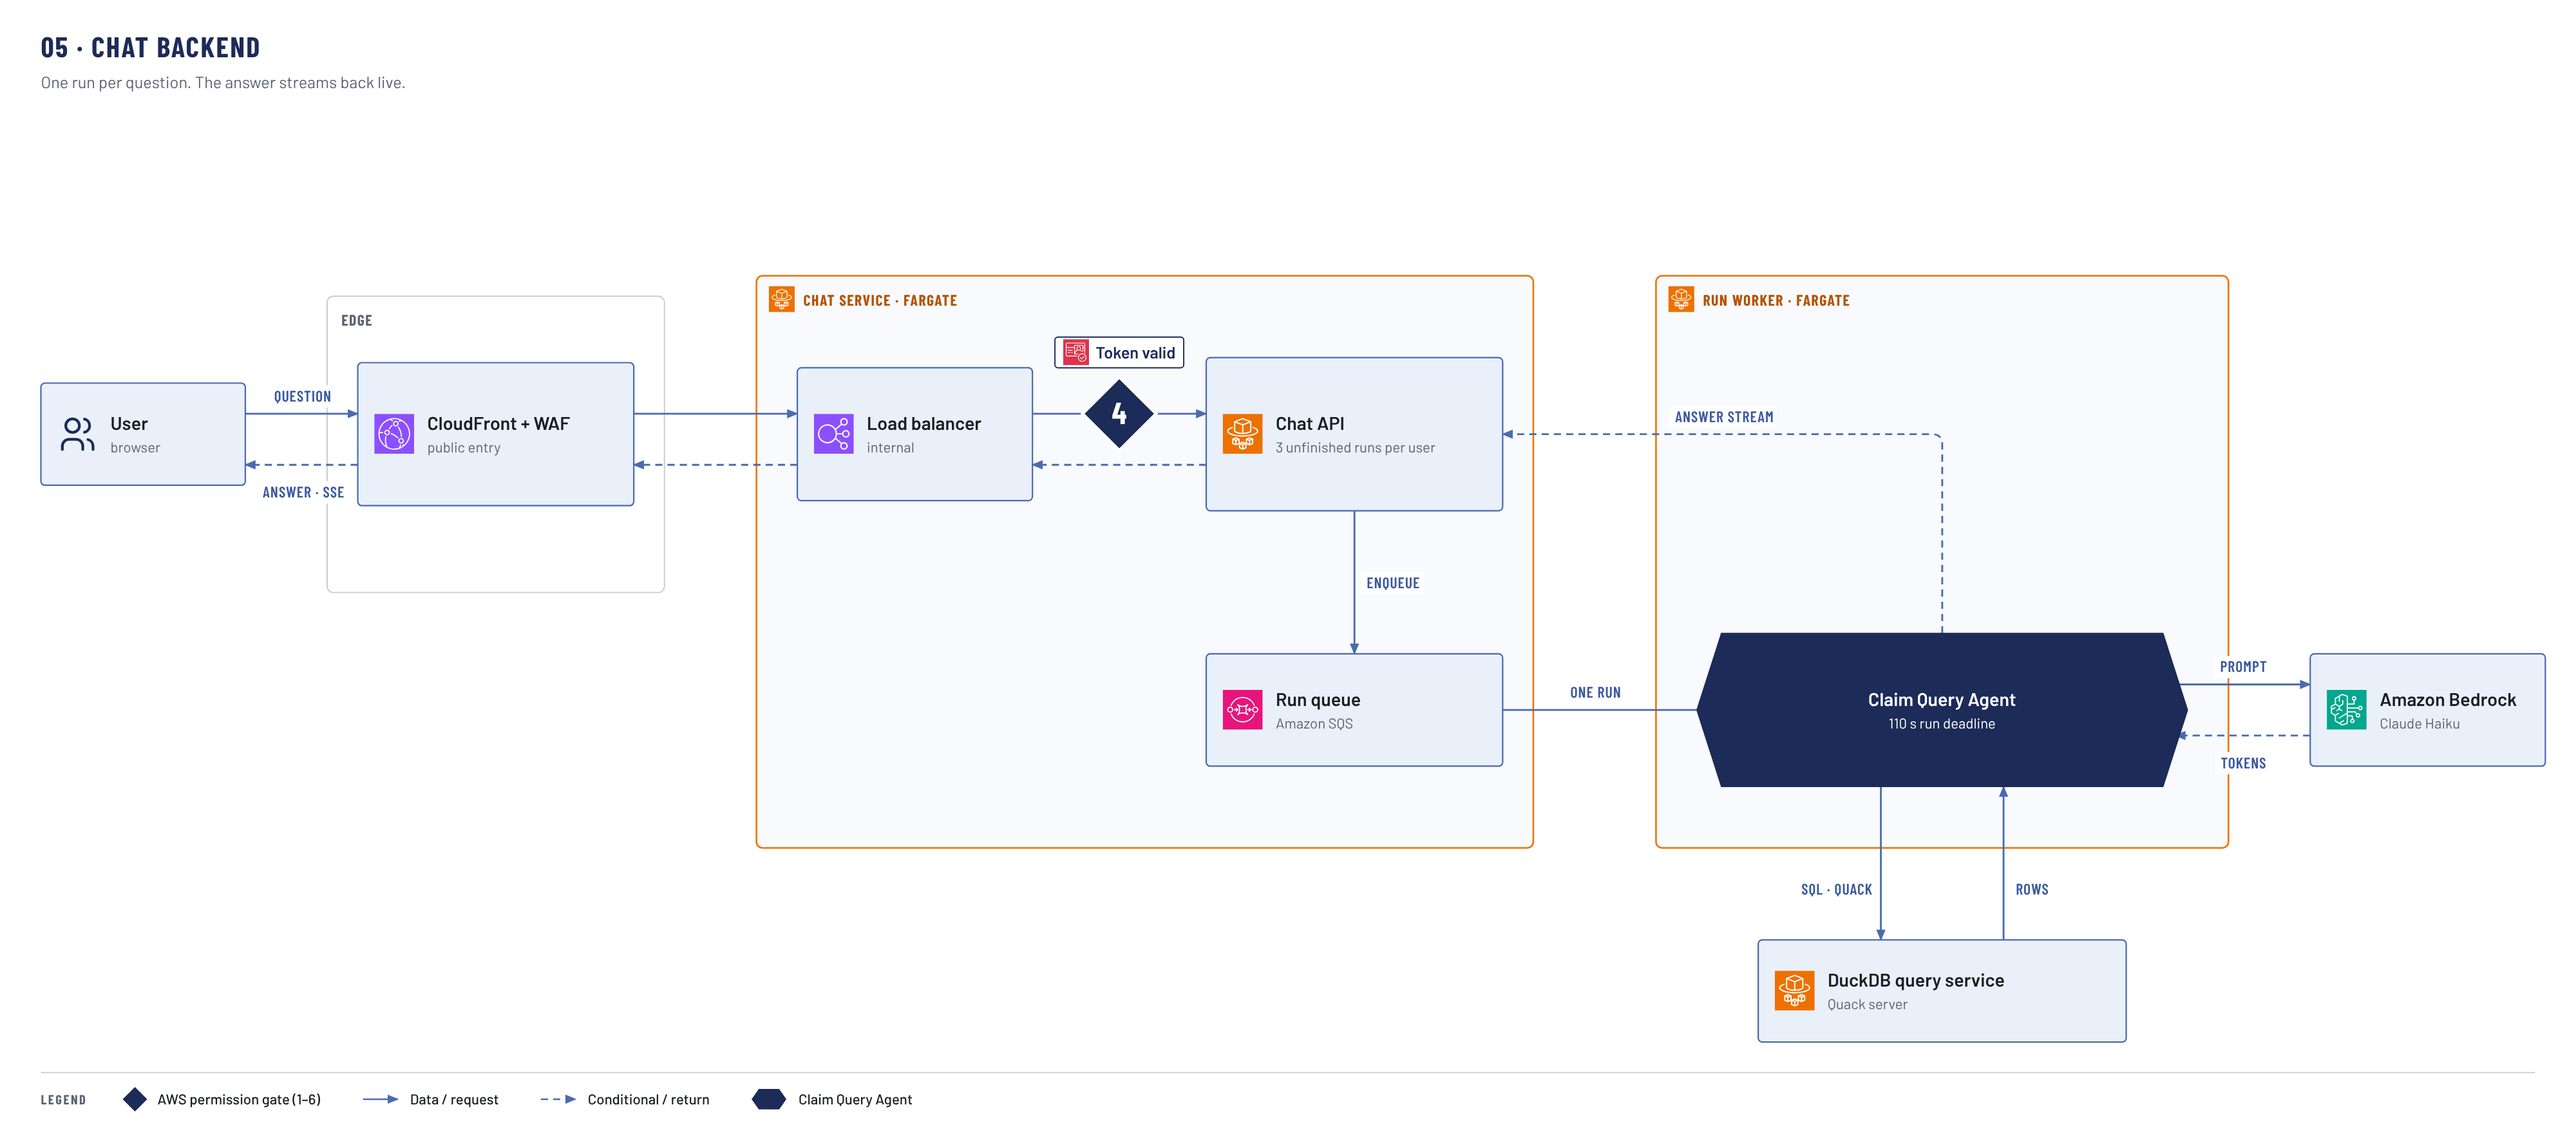
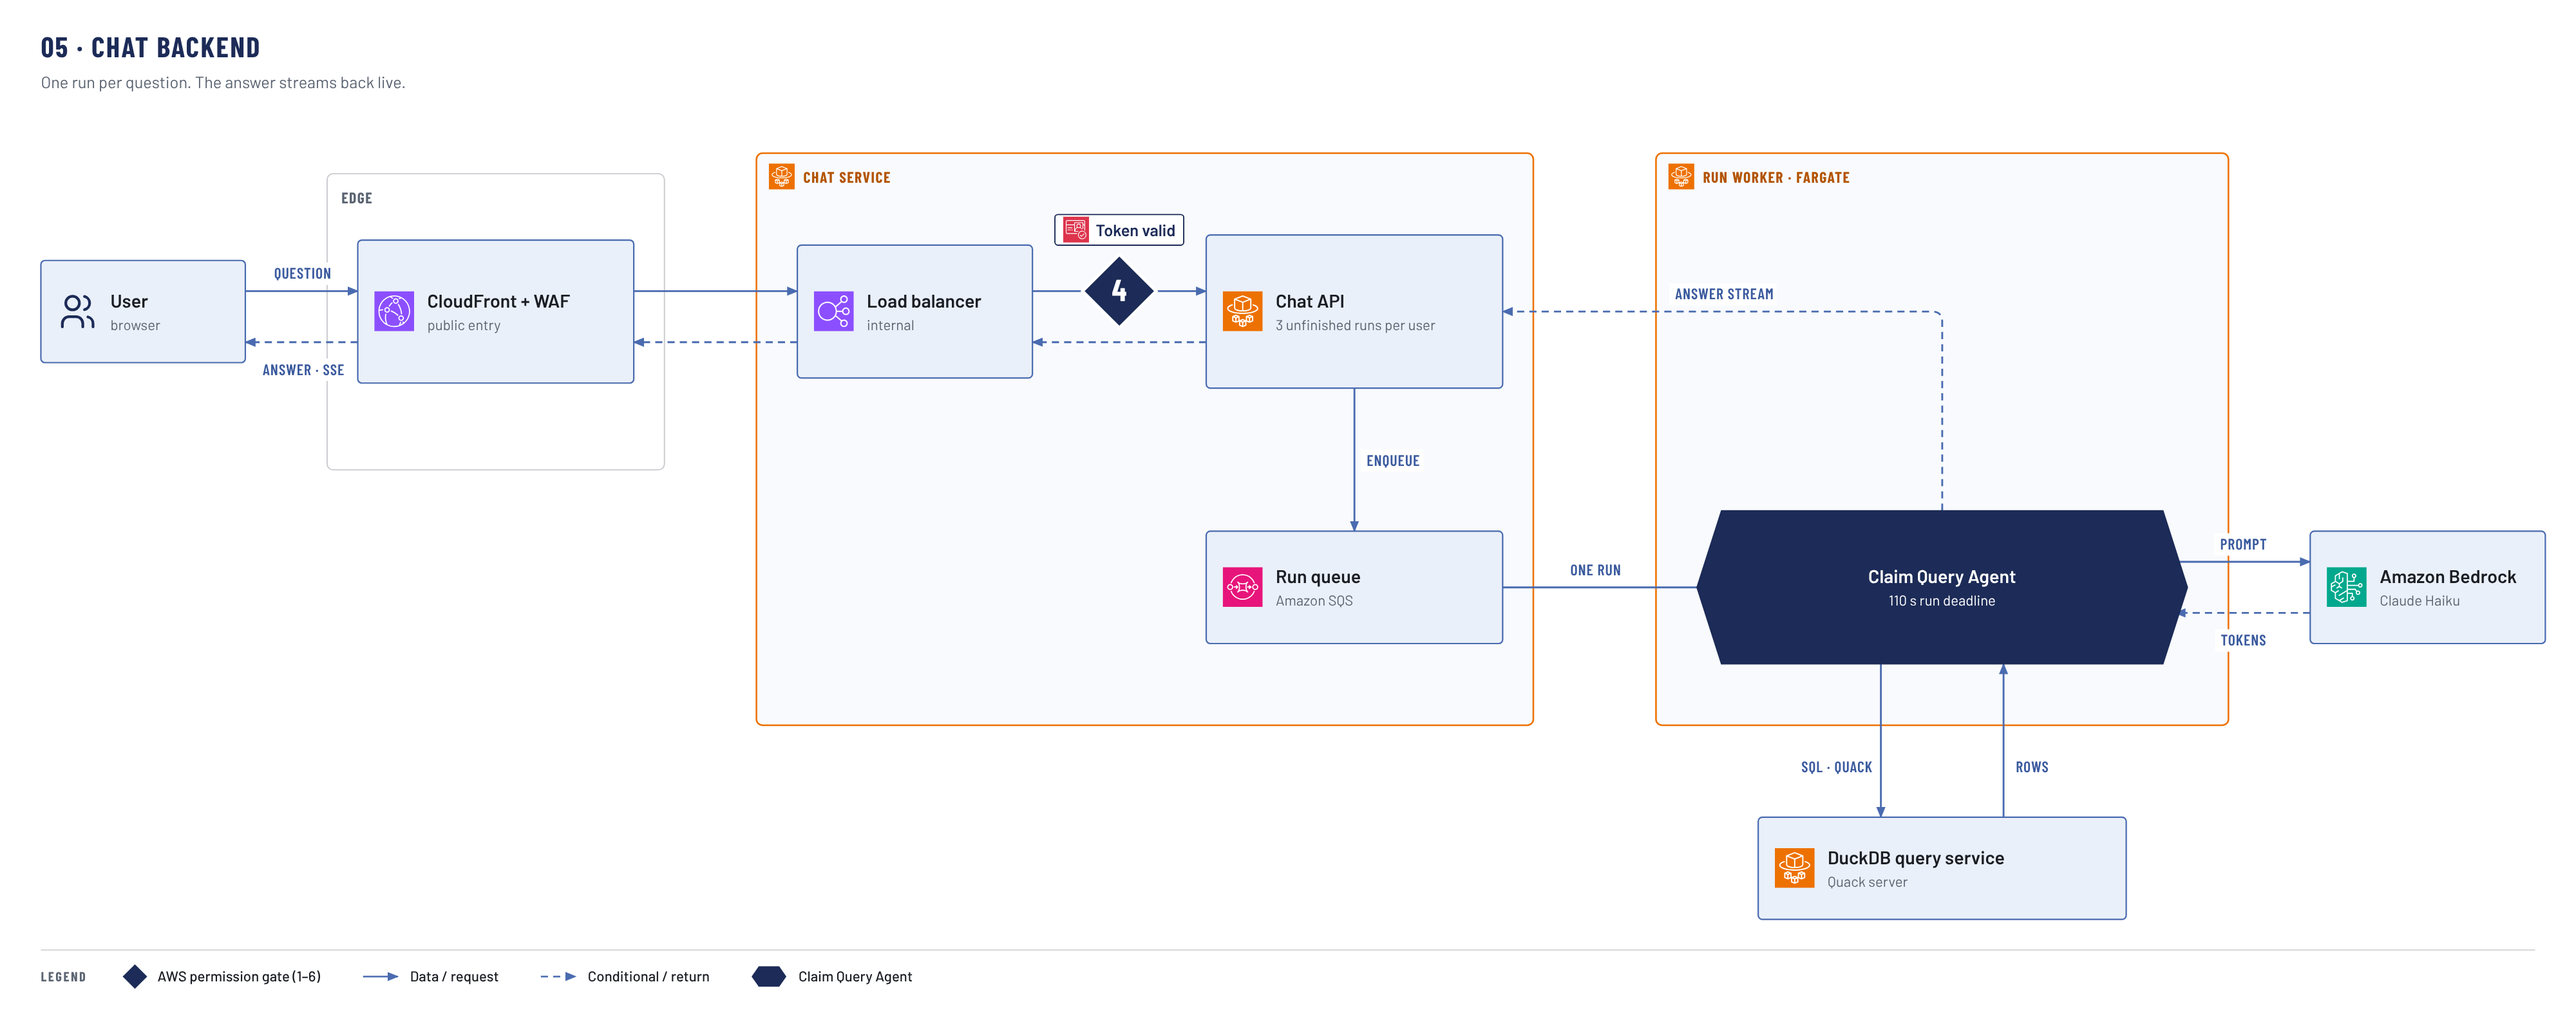
Architecture docs: drill-downs re-exported at 4000 px
Claude-Session: https://claude.ai/code/session_016uF8mxJK8MMFGsujh3CJ5M

diff --git a/docs/architecture/tools/drilldowns.py b/docs/architecture/tools/drilldowns.py
@@ -23,6 +23,21 @@ G1, G2, G3, G4, G5, G6 = ("Rule matches\ncustomer B", "PassRole\nparser role B",
                           "Token valid", "Trust policy\nallows this token", "IAM + KMS\nreader role B")
 
 
+def lift(d, dy, below=100):
+    """Move everything under y = below up by dy (to close an empty band under the title)."""
+    for coll in (d.zones, d.nodes, d.gates, d.texts):
+        for e in coll:
+            if e["y"] > below:
+                e["y"] -= dy
+    for e in d.edges:
+        e["pts"] = [(x, y - dy) for x, y in e["pts"]]
+        if e["at"]:
+            e["at"] = (e["at"][0], e["at"][1] - dy)
+        if e.get("xat"):
+            e["xat"] = (e["xat"][0], e["xat"][1] - dy)
+    d.h -= dy
+
+
 def d00():
     d = Diagram("00-storage", "00 · Storage & isolation",
                 "Customer B's prefixes in the one ClaimClarity data bucket, the roles and keys that guard them, and Customer A denied.",
@@ -235,7 +250,7 @@ def d05():
     d.node("cf", 350, 355, 270, 140, "CloudFront + WAF", "public entry", "cloudfront")
     d.edge([(240, 405), (350, 405)], "question", (295, 393))
     d.edge([(350, 455), (240, 455)], "answer · sse", (295, 487), style="dashed")
-    d.zone(740, 270, 760, 560, "Chat service · Fargate", "worker", "fargate")
+    d.zone(740, 270, 760, 560, "Chat service", "worker", "fargate")
     d.node("alb", 780, 360, 230, 130, "Load balancer", "internal", "elb")
     d.node("api", 1180, 350, 290, 150, "Chat API", "3 unfinished runs per user", "fargate")
     d.edge([(620, 405), (780, 405)])
@@ -256,6 +271,7 @@ def d05():
     d.node("qs", 1720, 920, 360, 100, "DuckDB query service", "Quack server", "fargate")
     d.edge([(1840, 770), (1840, 920)], "sql · quack", (1828, 876), lpos="left")
     d.edge([(1960, 920), (1960, 770)], "rows", (1972, 876), lpos="right")
+    lift(d, 120)
     return d
 
 

diff --git a/docs/architecture/tools/ddlib.py b/docs/architecture/tools/ddlib.py
@@ -697,7 +697,8 @@ def to_excalidraw(d):
             rows = n["inner"]; rh = (h - 54) / len(rows); cw = n.get("colw", (w - 32) / len(rows[0]))
             for i, row in enumerate(rows):
                 for j, cell in enumerate(row):
-                    X.rect(x + 16 + j * cw, y + 44 + i * rh, cw, rh, roughness=0, strokeWidth=1,
+                    cwj = cw if j < len(row) - 1 else (w - 32) - cw * (len(row) - 1)
+                    X.rect(x + 16 + j * cw, y + 44 + i * rh, cwj, rh, roughness=0, strokeWidth=1,
                            backgroundColor="#e9ecef" if i == 0 else "transparent")
                     X.text(x + 26 + j * cw, y + 50 + i * rh, cell, 15)
             continue
